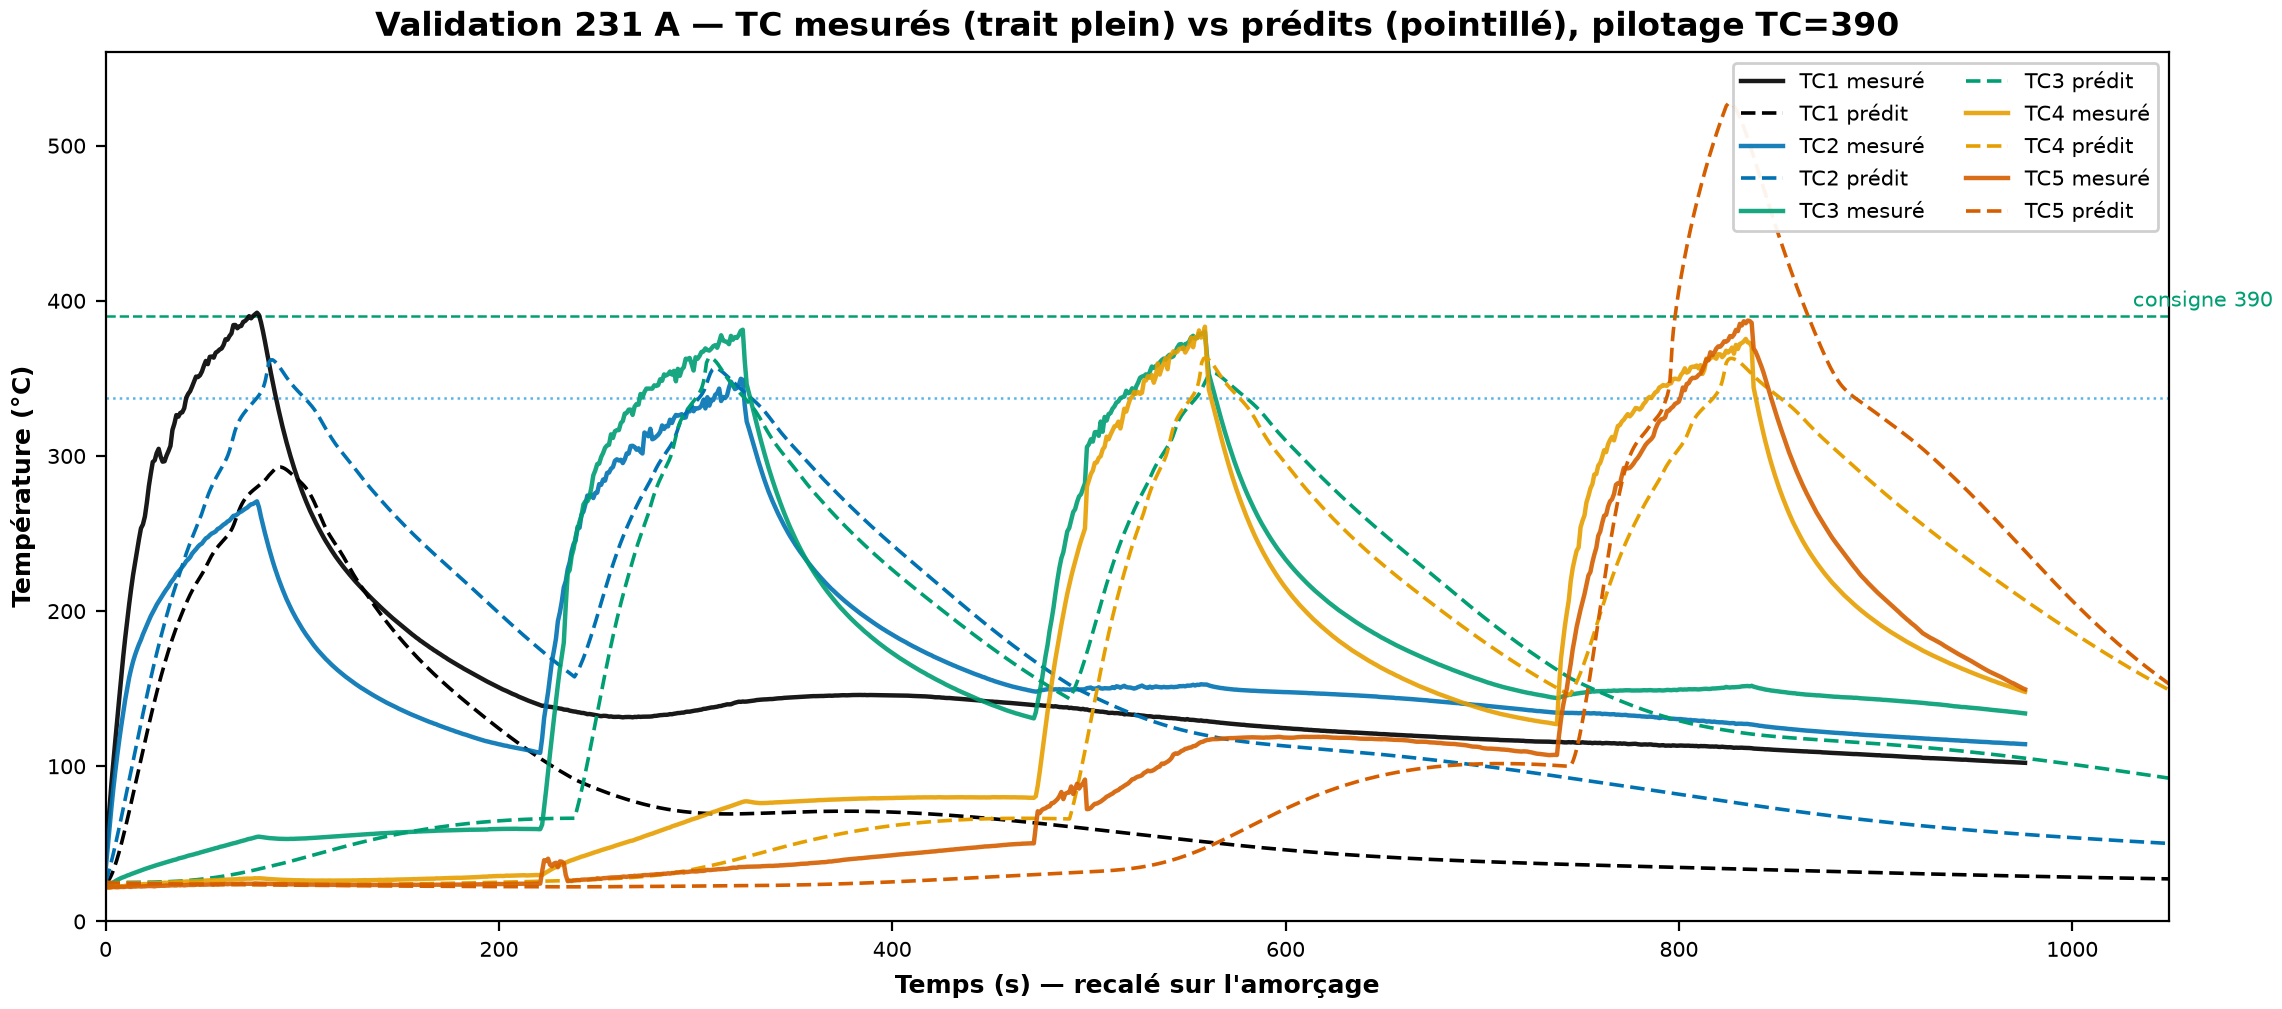
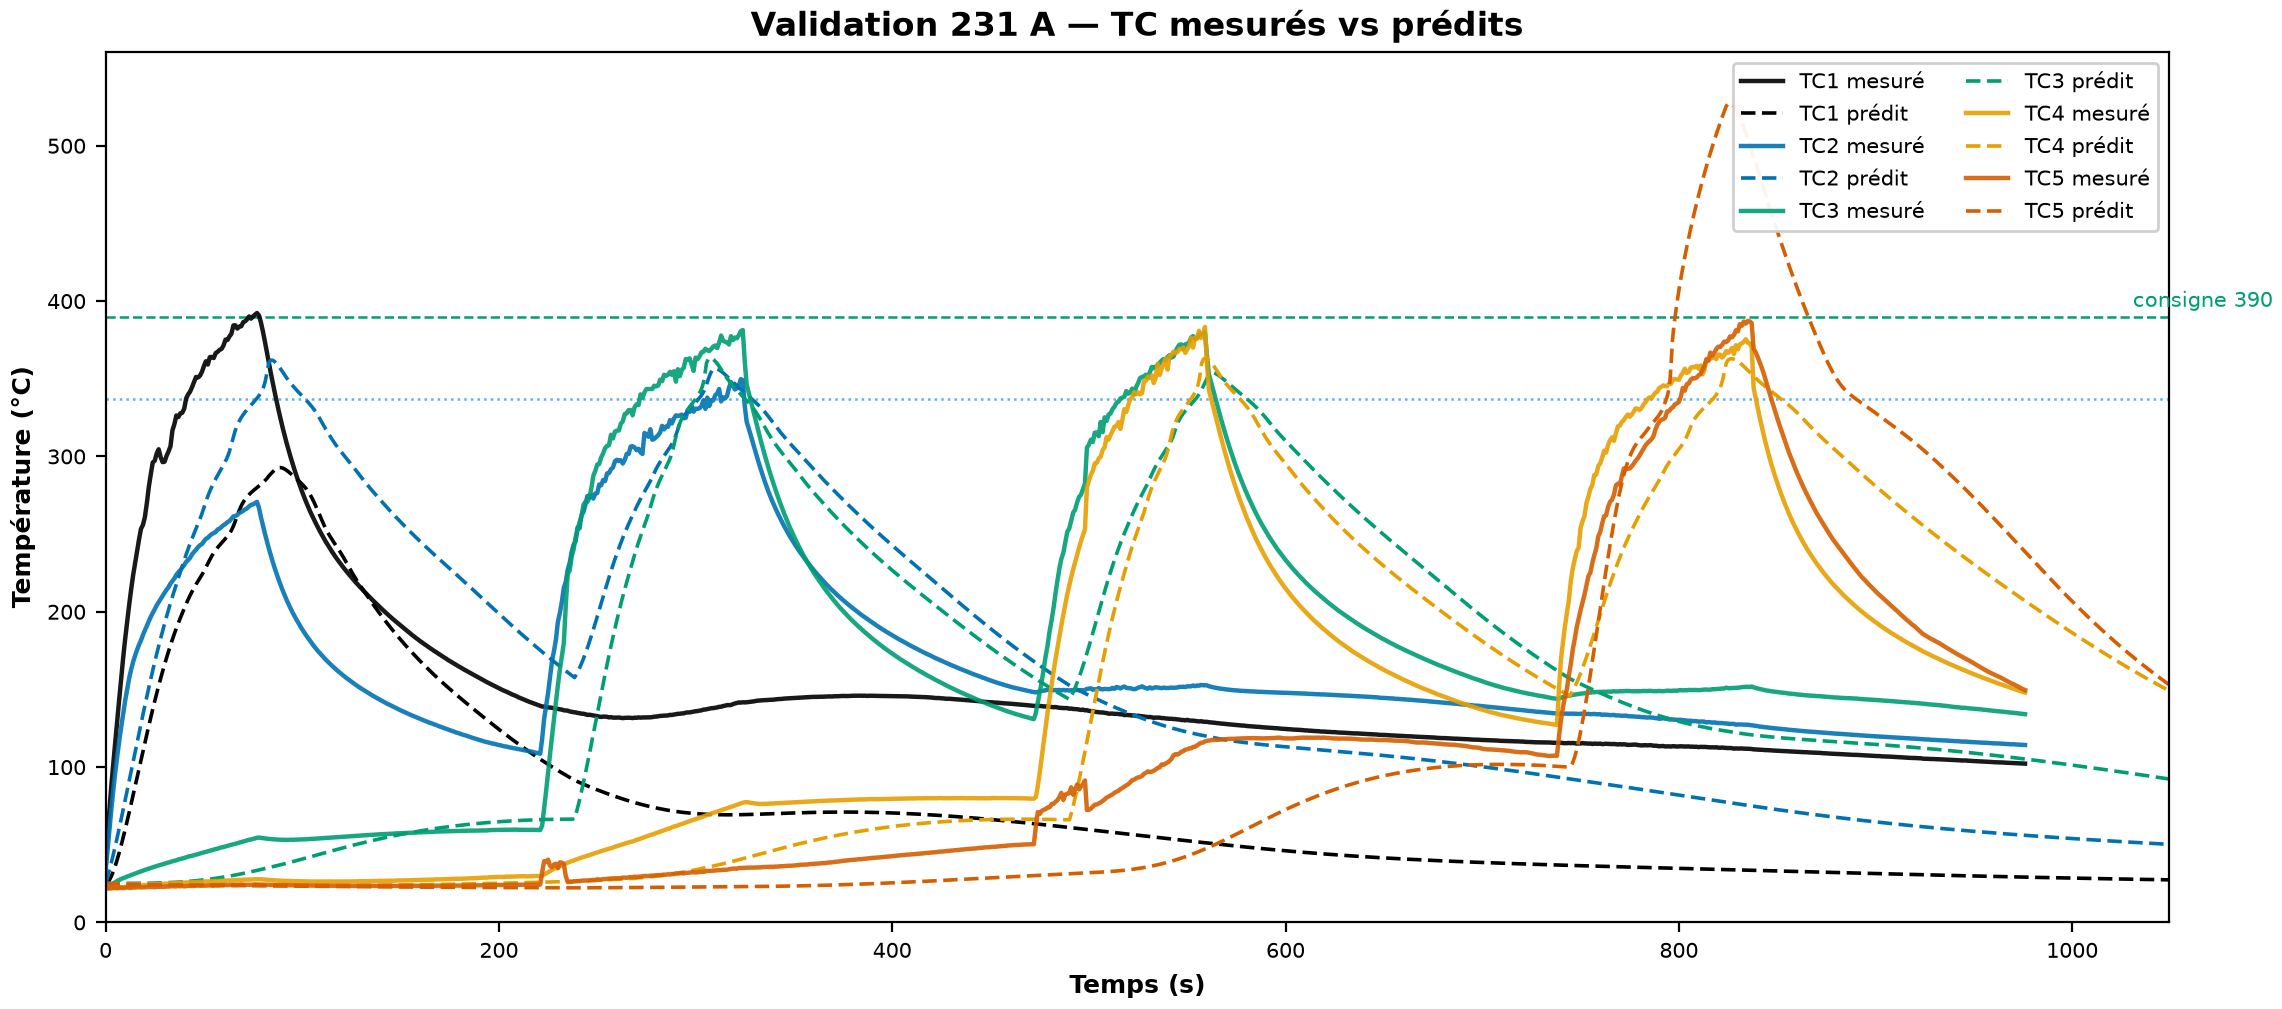
docs(labo): archive issue #67 + figure 231A predits-seuls, titres harmonises
- Archive markdown de l'issue #67 (validation 231 A + raffinements du jumeau)
  dans biblio/labo/synthese_issue67_validation_231A_2026-08-31.md
- Nouveau script gen_predit_231A_seul.py -> fig_predit_231A_seul.png
  (5 TC predits, modele seul, sans donnees banc)
- Validation 231 A : titre -> "TC mesures vs predits", abscisse -> "Temps (s)"
  (retrait du suffixe pilotage/trait-plein-pointille redondant avec la legende)
- Titres harmonises sur le format cohere (style _style.py, Okabe-Ito, DejaVu Sans)

Claude-Session: https://claude.ai/code/session_01DjRP3Goz31RxKF3LvbvLoR

diff --git a/code/scripts/gen/gen_predit_231A_seul.py b/code/scripts/gen/gen_predit_231A_seul.py
@@ -1,0 +1,54 @@
+#!/usr/bin/env python3
+"""Validation 231 A — TC PRÉDITS SEULS (sans données banc).
+
+Même modèle et même mise en page que gen_compare_230A_vs_reel.py, mais on
+n'affiche QUE les 5 TC prédits par le jumeau (modèle 2D, θ*, pilotage TC=360
+modèle ≈ 390 réel). Aucune courbe mesurée : figure « simulation seule » pour
+présenter la prédiction du cycle 231 A indépendamment de l'essai.
+
+Sortie : biblio/labo/figures/fig_predit_231A_seul.png
+"""
+from __future__ import annotations
+import sys
+from pathlib import Path
+import numpy as np
+import matplotlib.pyplot as plt
+
+R = next(p for p in Path(__file__).resolve().parents if (p / ".git").exists())
+sys.path.insert(0, str(R / "code" / "scripts" / "gen"))
+sys.path.insert(0, str(R / "code" / "scripts"))
+import gen_cycle_230A_TC390 as m  # noqa: E402
+from _style import savefig, OKABE_ITO  # noqa: E402
+
+COURANT = 231.0
+COUL = [OKABE_ITO[c] for c in ("noir", "bleu", "vert", "orange", "vermillon")]
+
+
+if __name__ == "__main__":
+    print("simulation du modèle (231 A)…")
+    res = m.simuler_cycle_tc(COURANT)
+    t_sim, series_sim, noms = res["t"], res["series"], res["noms"]
+
+    fig, ax = plt.subplots(figsize=(11.5, 5.2))
+    for nom, coul in zip(noms, COUL):
+        ax.plot(t_sim, series_sim[nom], color=coul, lw=1.6, label=f"{nom} prédit")
+    ax.axhline(390, color=OKABE_ITO["vert"], lw=0.9, ls="--", zorder=1)
+    ax.axhline(337, color=OKABE_ITO["cyan"], lw=0.9, ls=":", zorder=1)
+    ax.text(ax.get_xlim()[1], 393, " consigne 390", fontsize=7.5,
+            color=OKABE_ITO["vert"], va="bottom", ha="right")
+
+    ax.set_xlim(0, t_sim[-1])
+    ax.set_ylim(0, 560)
+    ax.set_xlabel("Temps (s)")
+    ax.set_ylabel("Température (°C)")
+    ax.set_title("Simulation 231 A — TC prédits (modèle seul)",
+                 fontsize=12, fontweight="bold")
+    ax.legend(loc="upper right", ncol=1, fontsize=8, framealpha=0.93)
+    fig.tight_layout()
+    savefig(fig, R / "biblio" / "labo" / "figures" / "fig_predit_231A_seul")
+    plt.close(fig)
+
+    print("\n=== Pics prédits (modèle, 231 A) ===")
+    for nom in noms:
+        print(f"{nom:>4} | {float(np.max(series_sim[nom])):7.0f} °C")
+    print("figure -> biblio/labo/figures/fig_predit_231A_seul.png")

diff --git a/code/scripts/gen/gen_compare_230A_vs_reel.py b/code/scripts/gen/gen_compare_230A_vs_reel.py
@@ -62,9 +62,9 @@ if __name__ == "__main__":
 
     ax.set_xlim(0, max(t_sim[-1], t_reel[-1]))
     ax.set_ylim(0, 560)
-    ax.set_xlabel("Temps (s) — recalé sur l'amorçage")
+    ax.set_xlabel("Temps (s)")
     ax.set_ylabel("Température (°C)")
-    ax.set_title("Validation 231 A — TC mesurés (trait plein) vs prédits (pointillé), pilotage TC=390",
+    ax.set_title("Validation 231 A — TC mesurés vs prédits",
                  fontsize=12, fontweight="bold")
     ax.legend(loc="upper right", ncol=2, fontsize=7.5, framealpha=0.93)
     fig.tight_layout()

diff --git a/biblio/labo/synthese_issue67_validation_231A_2026-08-31.md b/biblio/labo/synthese_issue67_validation_231A_2026-08-31.md
@@ -1,0 +1,179 @@
+# Archive — Issue #67 : validation 231 A et raffinements du jumeau
+
+> **Source** : GitHub issue #67 (« Synthèse opérateur — validation 231 A et raffinements du jumeau »).
+> **Archivé le** : 2026-08-31. Récit chronologique et factuel de tout le travail mené sur
+> le jumeau thermique CF/PEKK depuis les essais réels du 26/08. Tout ce qui suit est **acquis**.
+> Figures locales : `biblio/labo/figures/`.
+
+---
+
+## TL;DR
+
+- ✅ **Jumeau fiable** sur les TC **intérieurs TC2/TC3/TC4** (x = 30 / 60 / 90 mm) : pics à **±12–20 °C**. Base de validation et de pilotage.
+- ⚠ **TC1 et TC5** (bords x = 0 et x = 120 mm) **non prédictibles** de façon fiable : physique de bord 2D + effets de coin. Ne pas piloter dessus.
+- ✅ **Point chaud d'interface plafonné ~500 °C** par la fusion du PEKK (le calcul « brut » sans fusion montait à 865 °C = non physique).
+- ✅ Deux corrections physiques **adoptées par défaut** (effet de coin + artefact de source au bord), **sans dégrader l'intérieur** (held-out neutre). Recalibration globale **testée puis rejetée** (NO-GO held-out).
+- ➡ **Prochaine action banc** : campagne **275 A** (hors-domaine), 2 tirs, layout v2, prédictions figées à l'avance, **held-out pur**. Couper les TC de bord à 390 °C. Marge à la dégradation étroite à 275 A.
+
+---
+
+## Glossaire
+
+| Terme | Signification concrète |
+|---|---|
+| **Jumeau / modèle** | Simulation thermique 2D de la plaque CF/PEKK (120 × 40 mm), soudage semi-statique 4 passes ; le MFC + bobine avance de 30 mm. |
+| **θ\*** | Jeu de paramètres calibrés « canonique » (facteur de couplage 6,0123 ; k_plan = 3,0 ; h_bas_2d = 37,4 ; h_bord_x0). Configuration de référence. |
+| **Calibration** | Ajuster ces paramètres sur UN essai de référence. |
+| **Held-out** | Essais **non utilisés** pour calibrer, servant à juger honnêtement le modèle. Amélioration de l'essai calibré + dégradation du held-out → rejet (surapprentissage). |
+| **NO-GO** | Modif rejetée parce qu'elle dégrade le held-out. |
+| **Point chaud** | Température **à l'interface** de soudage (au cœur), plus chaude que les TC de bord. |
+| **Profil « M »** | En largeur, la chaleur induite est plus forte **sur les bords** (bosses du M) qu'au centre : les courants de Foucault s'écrasent au bord. |
+| **Dwell** | Durée de maintien (temps de séjour) de chaque passe sur une position. |
+| **Tg** | Transition vitreuse du PEKK (159 °C). |
+| **Tf / fusion** | Fusion du PEKK, ~337 °C (seuil). Consigne procédé = 390 °C ; dégradation = 450 °C. |
+| **Layout v1 / v2** | Disposition des TC. **v1** : tous les TC au **bord** (y = 0), x = 0/30/60/90/120. **v2** : TC1 (x = 0) et TC5 (x = 120) déplacés au **centre** de la largeur (y = 20 mm) ; TC2/3/4 restent au bord. |
+| **TC** | Thermocouple. |
+
+---
+
+## Récit chronologique (8 étapes)
+
+### Étape 1 — ✅ Essai réel 231 A v1 (26/08) : le jumeau est validé sur le procédé
+
+Premier essai réel exploitable, tous les TC au bord (y = 0), x = 0/30/60/90/120 mm. Confrontation directe modèle ↔ mesure.
+
+**Chiffres.** Pics des TC **intérieurs** (TC2/3/4) reproduits à **±12–20 °C**. RMSE de cycle **36–70 °C**, dominé par un **décalage temporel** (le modèle refroidit ~10 % trop lentement), pas par les pics. Résidus : refroidissement lent, coin x = 0 sous-capté, TC5 (x = 120) sur-prédit.
+
+**Interprétation.** Le jumeau reproduit correctement le **niveau thermique** vu par le procédé sur les capteurs intérieurs. Les écarts restants = cinétique de refroidissement un peu lente + effets de bord, pas une erreur sur l'échauffement.
+
+- `figures/fig_exp_231A_mesure.png` — mesure brute 231 A v1
+- `figures/fig_compare_230A_vs_reel.png` — confrontation modèle vs réel 231 A v1
+
+### Étape 2 — ✅ Correction de l'effet de coin (h_bord_x0 : 250 → 100)
+
+Le « puits de bord » du modèle (h_bord_x0) refroidissait trop le coin x = 0, alors que les chants sont **libres**. Valeur ramenée de 250 à 100.
+
+**Chiffres.** TC1 passe de **302 → 399 °C** (mesuré : **392 °C**). Le coin froid disparaît.
+
+- `figures/fig_compare_230A_vs_reel_coin.png` — correction du coin, 231 A
+
+### Étape 3 — ⚠ Recalibration jointe coin + refroidissement : NO-GO (issue #65)
+
+Tentative de recaler globalement pour corriger AUSSI le refroidissement lent : θ\* recalibré (facteur 6,54 / h_bas_2d 125 / h_bord_x0 ~0).
+
+**Chiffres.** Améliore le cycle 231 A (RMSE moyen **77,6 → 63,5**), **MAIS** held-out **NO-GO** : régresse les séries A/B de **+15 à +19 °C**, dégradation globale **+4,9**. → **Non adopté.**
+
+**Interprétation.** Le refroidissement rapide observé sur le 231 A est **spécifique à ce montage/jour**, pas une propriété générale. Le forcer casse tous les autres essais. On garde le θ\* canonique.
+
+- `figures/fig_valider_recalibration_231A.png` — validation recalibration sur 231 A
+- `figures/fig_heldout_recalibration_231A.png` — held-out recalibration (NO-GO)
+
+### Étape 4 — ✅ Le plateau ~350–390 °C = fusion du PEKK
+
+Le réel montre un **plateau** vers 350–390 °C. Modèle de fusion physique : chaleur latente **L_f = 40 J/g** (au lieu de 130 J/g, qui supposerait 100 % cristallin) + transport du **bain fondu** (k_plan(T) rehaussé au-dessus de Tf).
+
+**Chiffres.** Reproduit le **plateau** et **plafonne le point chaud d'interface de 865 → 508 °C** (valeur physique). Held-out quasi neutre (**+0,6**). Analyse de rampe : le réel **sature** près de la consigne (le « genou » de fusion absorbe l'énergie), le modèle canonique sans fusion **ne sature pas et dépasse**.
+
+**Interprétation.** La fusion du PEKK agit comme un **thermostat physique** : l'énergie sert à fondre, pas à monter en température. Le **vrai point chaud d'interface est ~500 °C**, pas 865. Important pour juger le risque de dégradation (450 °C).
+
+- `figures/fig_valider_fusion_231A.png` — validation fusion 231 A
+- `figures/fig_rampe_231A.png` — analyse de la rampe 231 A
+
+### Étape 5 — ⚠ « TC5 s'emballe » : découverte d'un artefact de SOURCE au bord x
+
+Le modèle faisait « s'emballer » TC5 (x = 120). Diagnostic en deux temps :
+1. **Thermique** : les **deux** coins (x = 0 et x = 120) sur-chauffent, mais le puits h_bord_x0 n'agit qu'en x = 0 → asymétrie.
+2. **Électromagnétique (plus profond)** : au bord réel de la plaque (x = 0 et x = 120), la condition **ψ = 0** du solveur de courants de Foucault force Jx = 0 et **concentre artificiellement la source au centre de la largeur (y = 20)**, au lieu du profil « M ». Les TC1/TC5 posés là deviennent **non prédictibles**.
+
+- `figures/fig_diag_tc5_bord.png` — diagnostic TC5 au bord
+
+### Étape 6 — ✅ Essai réel 231 A v2 (27/08) : le layout confirme tout
+
+Nouvel essai, **layout v2** : TC1 (x = 0) et TC5 (x = 120) au **centre de la largeur (y = 20)** ; TC2/3/4 au bord (y = 0). But : mesurer directement ce que l'étape 5 prédit.
+
+**Chiffres.** Confirme les trois points :
+- **Profil M réel** : TC5 au centre = **340 °C** < TC5 au bord = 387 °C → profil M validé.
+- **Artefact de source** : modèle TC5 = **754 °C** vs réel = **340 °C** (le modèle surchauffe massivement au centre du bord x).
+- **Emballement canonique amplifié** aux dwells plus longs de la v2.
+
+**Interprétation.** La physique de bord de l'étape 5 est **mesurée**, pas supposée.
+
+- `figures/fig_compare_231A_v2.png` — confrontation 231 A v2 (source canonique, avant correction)
+
+### Étape 7 — ✅ Correction de l'artefact de source, activée par défaut (30/08)
+
+Correction développée (agent EM spécialisé). **Recadrage important** : le pic au centre est **en grande partie de la vraie physique** (fermeture des boucles de courant loin de la bobine) ; **seul le collapse EXACT de la source à zéro au chant** était pathologique. Correction = **effet 3D d'épaisseur** (extension du domaine en x), **aucun paramètre libre nouveau**, flag `lambda_bord_x_mm`.
+
+**Activée par DÉFAUT** parce que l'**intérieur reste strictement intact** : held-out exp7/exp9 **Δ RMSE = 0,00** ; seules les séries A/B bougent de **+0,2 à +0,4** (via les TC de bord uniquement). `--lambda-bord-x-off` restaure l'ancien chemin. **123 tests verts.**
+
+**Chiffres (OFF → ON).** TC1 (x = 0, centre) : **454 → 391 °C** = mesuré exact. TC5 : reste à **665 °C** (résidu = causes **thermiques**, pas la source).
+
+- `figures/fig_compare_231A_v2_corrige.png` — correction artefact source, 231 A v2
+
+### Étape 8 — ➡ Prochaine campagne : 275 A hors-domaine (issue #66)
+
+**Décision (multi-agents).** Répéter 230 A **n'apporte rien** (résidus déjà prouvés). **275 A** teste l'**extrapolation** : loi de source ∝ I² → **+43 % de flux**.
+
+**Protocole.** ~2 tirs, **MÊME layout v2** (TC1/TC5 au centre y = 20), **prédictions figées a priori**, **held-out PUR** (on ne recalibre JAMAIS sur ces essais).
+
+**Prédiction figée.** Dwells **58 / 45 / 45 / 58 s**, cycle **~16 min**, TC2/3/4 → **~396–400 °C** réel attendu.
+
+**⚠ Avertissements.** Marge à la **dégradation étroite** à 275 A (on approche 450 °C). **TC1/TC5** restent **peu prédictibles**.
+
+- `figures/fig_cycle_275A_v2_prediction.png` — prédiction cycle 275 A v2
+
+---
+
+## Acquis vs limites
+
+| | Statut | Détail |
+|---|---|---|
+| TC intérieurs TC2/3/4 (x = 30/60/90) | ✅ Fiable | Pics à ±12–20 °C. Base de validation et de pilotage. |
+| Point chaud d'interface | ✅ Compris | Plafonné ~500 °C par la fusion (pas 865). |
+| Effet de coin (TC1, x = 0) | ✅ Corrigé | h_bord_x0 250→100 + correction source ; TC1 = mesuré. |
+| Plateau de fusion | ✅ Modélisé | L_f = 40 J/g + transport bain fondu ; held-out neutre. |
+| Artefact de source au bord x | ✅ Corrigé | Effet 3D d'épaisseur, 0 paramètre libre, défaut ON, intérieur intact. |
+| Refroidissement de cycle | ⚠ Léger biais | Modèle ~10 % trop lent (spécifique montage). Non corrigé (recalibration = NO-GO). |
+| TC5 (x = 120) | ⚠ Non fiable | Résidu thermique multi-cause. Ne pas piloter dessus. |
+| TC1/TC5 en général (bords x) | ⚠ Non prédictibles | Physique de bord 2D + coin. |
+| Extrapolation en courant (>231 A) | ❓ À tester | Objet de la campagne 275 A (held-out pur). |
+
+---
+
+## Prochaines étapes (banc)
+
+1. **Campagne 275 A**, ~2 tirs, **layout v2** (TC1/TC5 au centre y = 20 mm).
+2. **Prédictions figées à l'avance** — held-out **pur**, on ne recalibre pas.
+3. **Couper les TC de bord à 390 °C** (consigne procédé).
+4. **Surveiller la marge à la dégradation** (450 °C) : étroite à 275 A.
+5. Valider/piloter **uniquement sur TC2/3/4**. Traiter TC1/TC5 comme informatifs, pas décisionnels.
+
+---
+
+## Issues liées
+
+- **#64** — Campagne d'essais 231 A (validation cycle).
+- **#65** — Recalibration jointe coin + refroidissement : **held-out NO-GO** (non adoptée).
+- **#66** — Campagne 275 A hors-domaine (extrapolation, held-out pur).
+- **#67** — Synthèse opérateur (source de cette archive).
+
+---
+
+## Table des figures
+
+| Fichier (`biblio/labo/figures/`) | Étape | Contenu |
+|---|---|---|
+| `fig_exp_231A_mesure.png` | 1 | Mesure brute 231 A v1 |
+| `fig_compare_230A_vs_reel.png` | 1 | Validation 231 A — modèle vs réel (mesuré plein / prédit pointillé) |
+| `fig_compare_230A_vs_reel_coin.png` | 2 | Correction du coin (h_bord_x0 250→100) |
+| `fig_valider_recalibration_231A.png` | 3 | Recalibration sur 231 A |
+| `fig_heldout_recalibration_231A.png` | 3 | Held-out recalibration (NO-GO) |
+| `fig_valider_fusion_231A.png` | 4 | Validation fusion (plateau, plafond ~500 °C) |
+| `fig_rampe_231A.png` | 4 | Analyse de la rampe (saturation de fusion) |
+| `fig_diag_tc5_bord.png` | 5 | Diagnostic artefact de source TC5 au bord |
+| `fig_compare_231A_v2.png` | 6 | Confrontation 231 A v2 (source canonique) |
+| `fig_compare_231A_v2_corrige.png` | 7 | Correction artefact de source, 231 A v2 |
+| `fig_cycle_275A_v2_prediction.png` | 8 | Prédiction cycle 275 A v2 |
+| `fig_cycle_230A_TC390.png` | — | Cycle 230 A prédit seul (piloté sur TC, sans données banc) |
+</content>
+</invoke>
